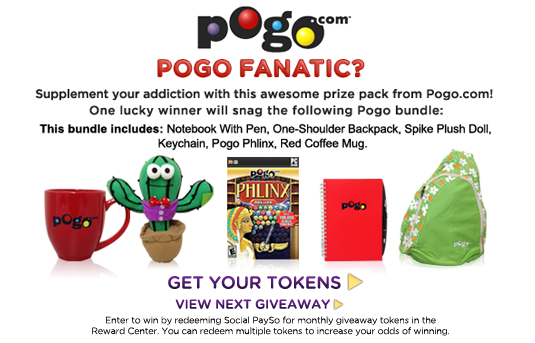
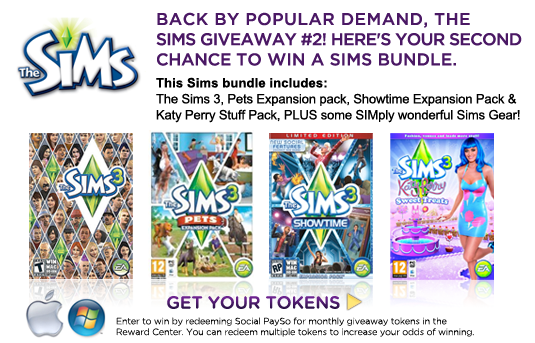
New social promo and fix for machinima being not unified yet

diff --git a/application/modules/starbar/controllers/ContentController.php b/application/modules/starbar/controllers/ContentController.php
@@ -59,6 +59,11 @@ class Starbar_ContentController extends Api_GlobalController
 			$this->view->headScript()->appendFile('/js/starbar/jquery.cycle.all.js');
 			$this->view->headLink()->appendStylesheet('/css/starbar-generic.css');
 			$this->view->headLink()->appendStylesheet('/css/starbar-' . $this->view->starbar->short_name . '.css');
+
+			if ($this->starbar_id != 3) { // Machinima not unified yet
+				$this->_helper->viewRenderer->setNoController();
+				$this->_helper->viewRenderer->setScriptAction('content/' . $request->getActionName());
+			}
 		}
 	}
 
